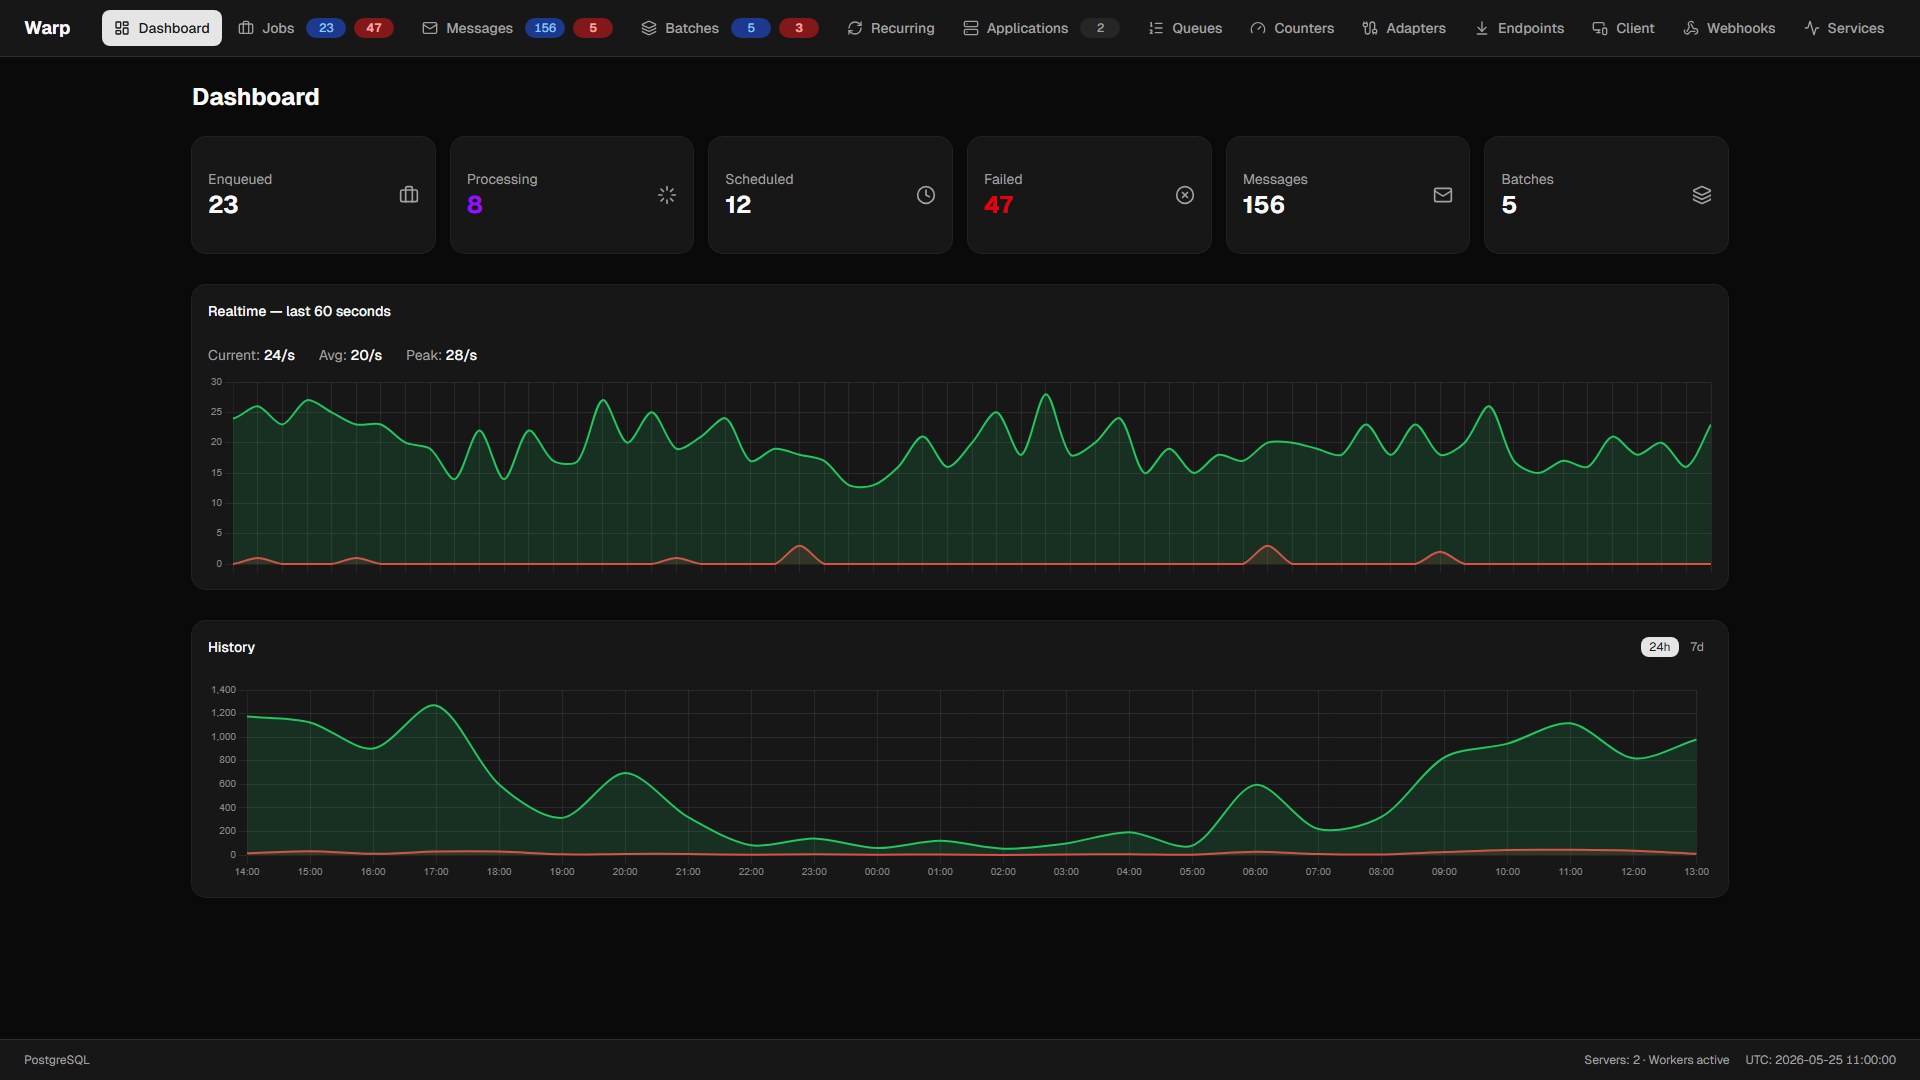
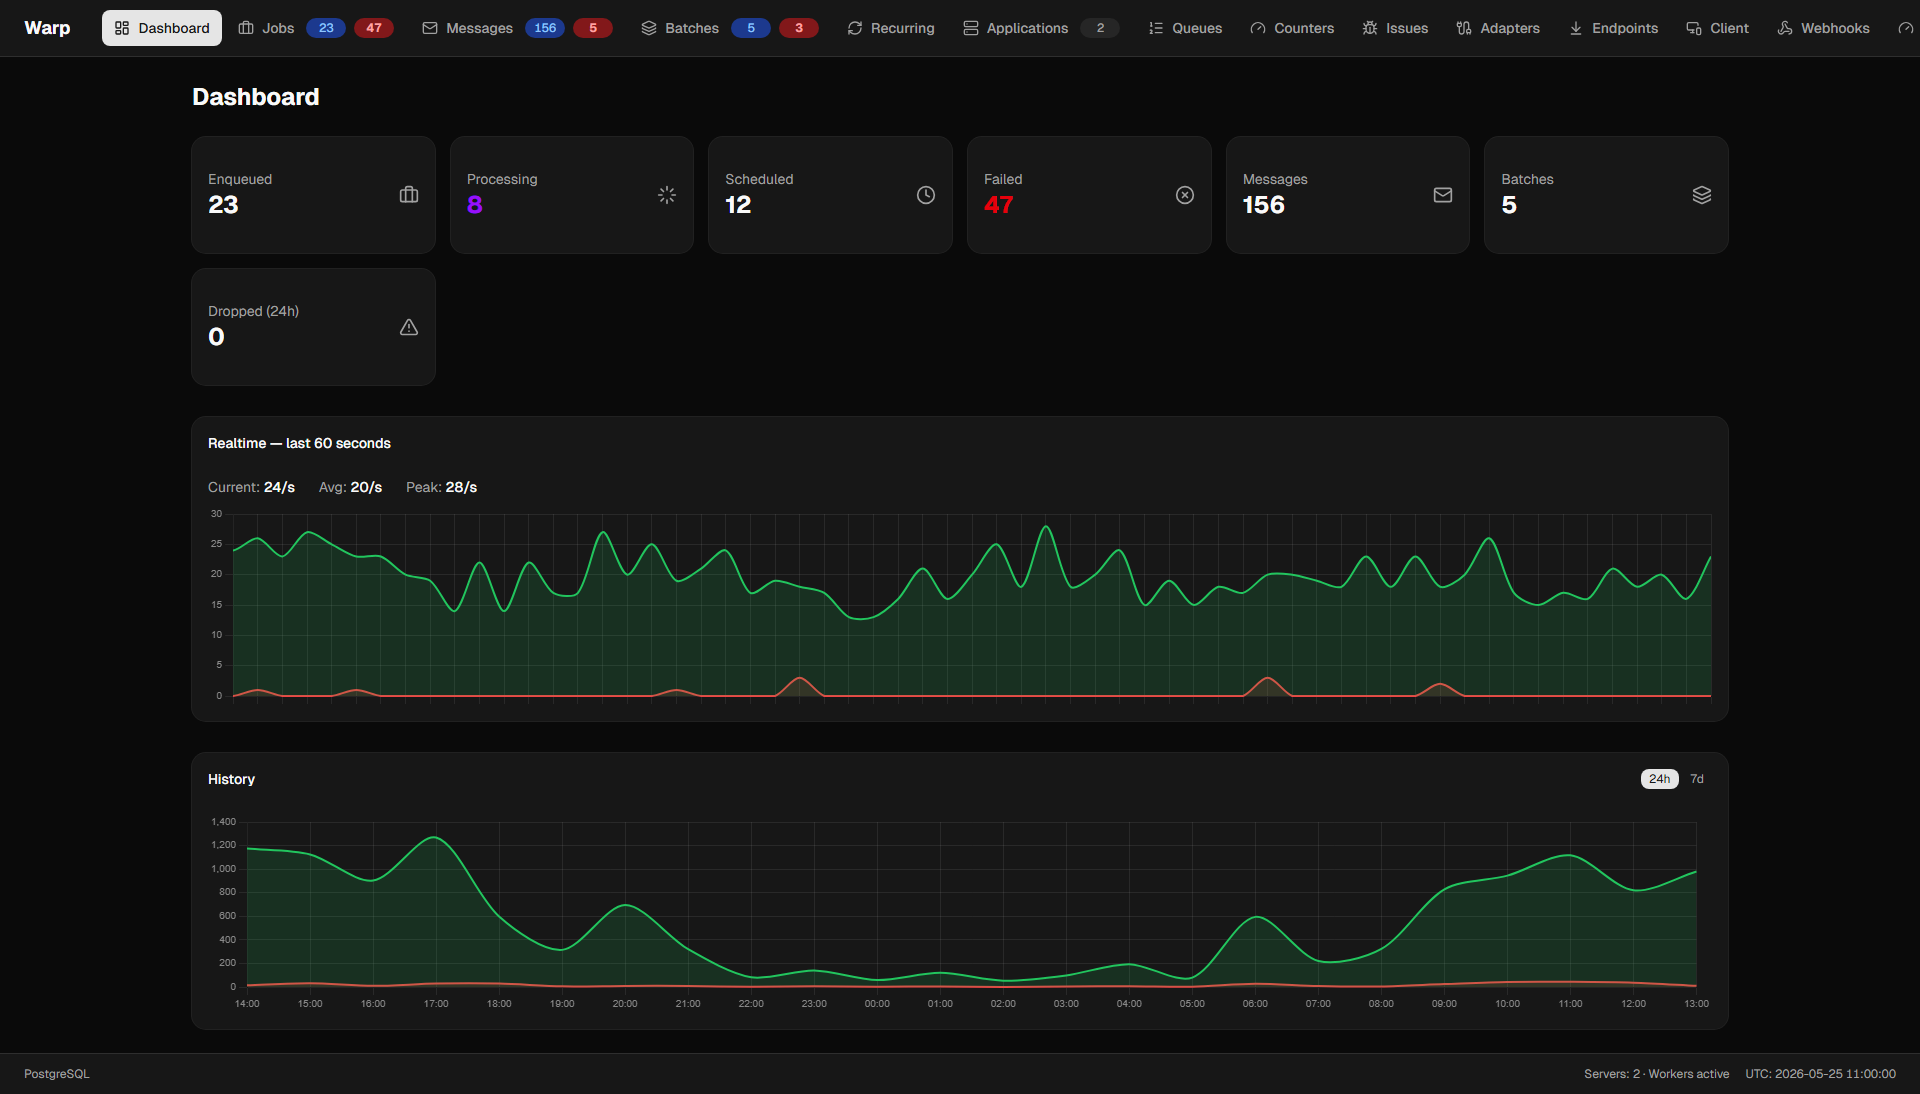
Docs: release 3.10.1 entry + regenerate dashboard screenshots for the Dropped tile
Retarget the dropped-record-visibility release note to 3.10.1 (additive patch) and
regenerate the dashboard screenshots (light + dark) so the docs reflect the new
"Dropped (24h)" health tile, per the screenshot-on-UI-change convention.

Claude-Session: https://claude.ai/code/session_017EfGoXmtfREp2B5iooRBew

diff --git a/website/docs/releases.md b/website/docs/releases.md
@@ -4,11 +4,11 @@ sidebar_position: 6
 
 # Releases
 
-## 3.11.0
+## 3.10.1
 
-*Unreleased*
+*2026-08-03*
 
-Additive — no migration, no breaking API changes.
+Additive patch — no migration, no breaking API changes.
 
 ### Dropped-record visibility
 
